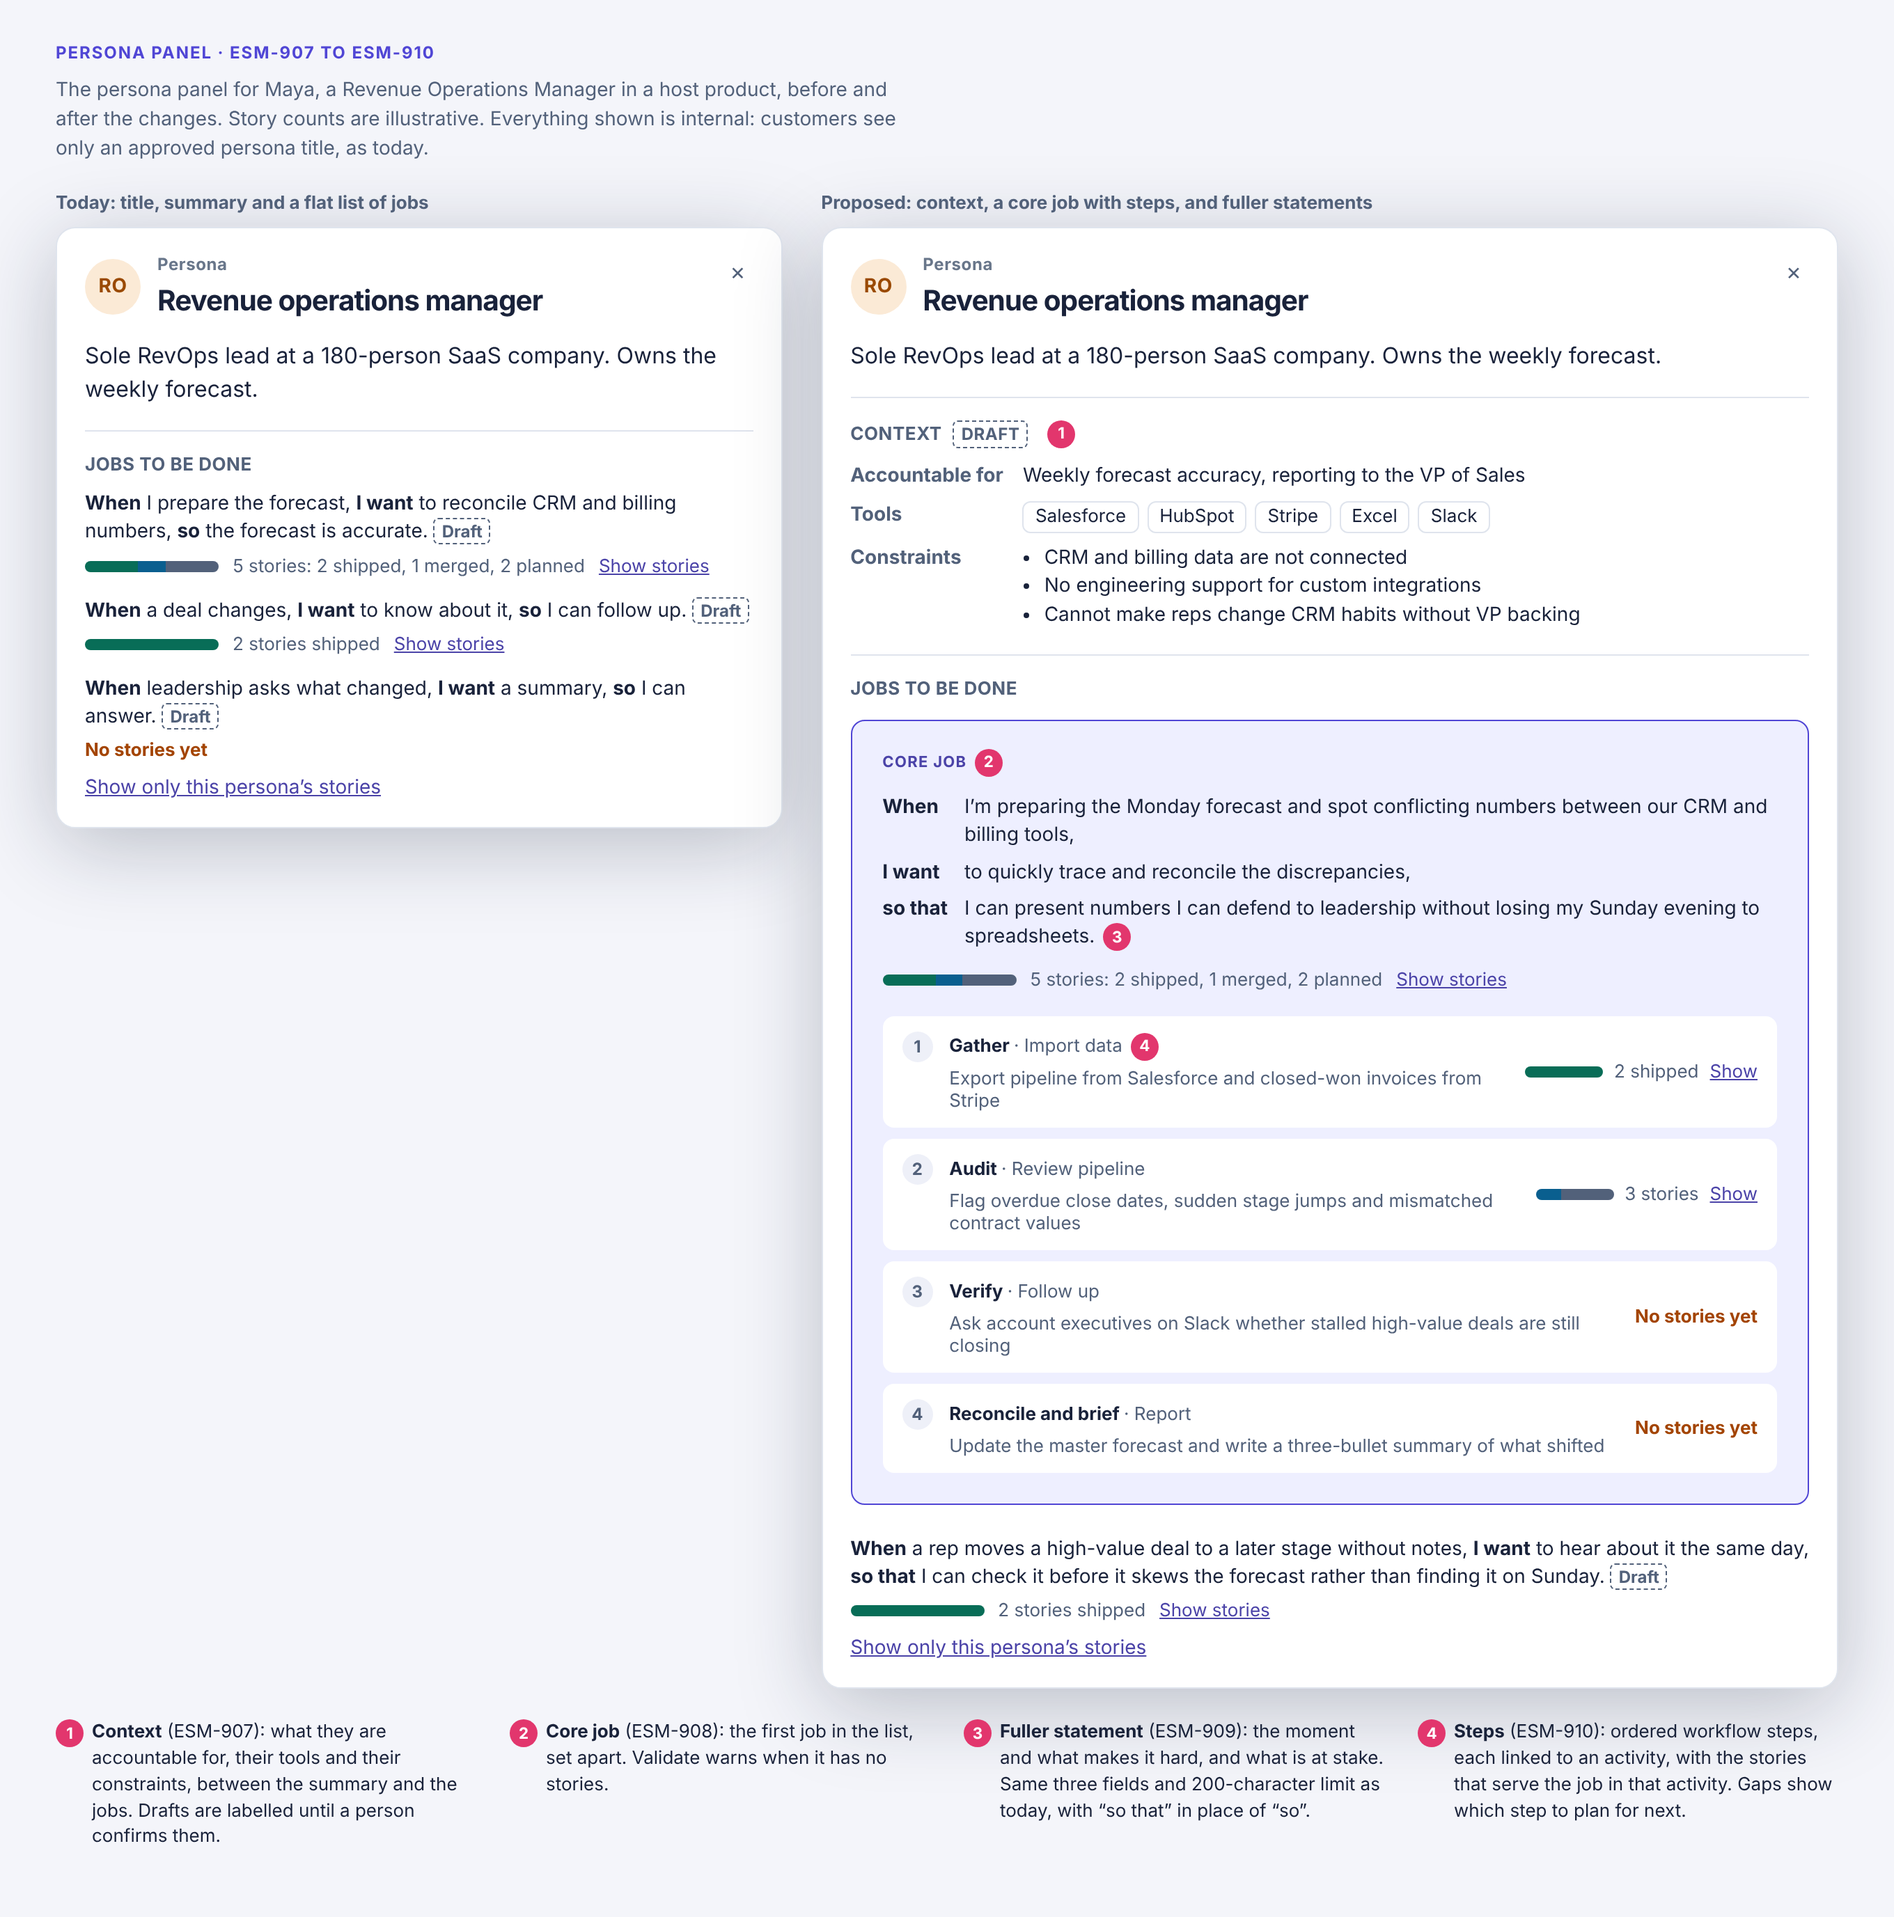
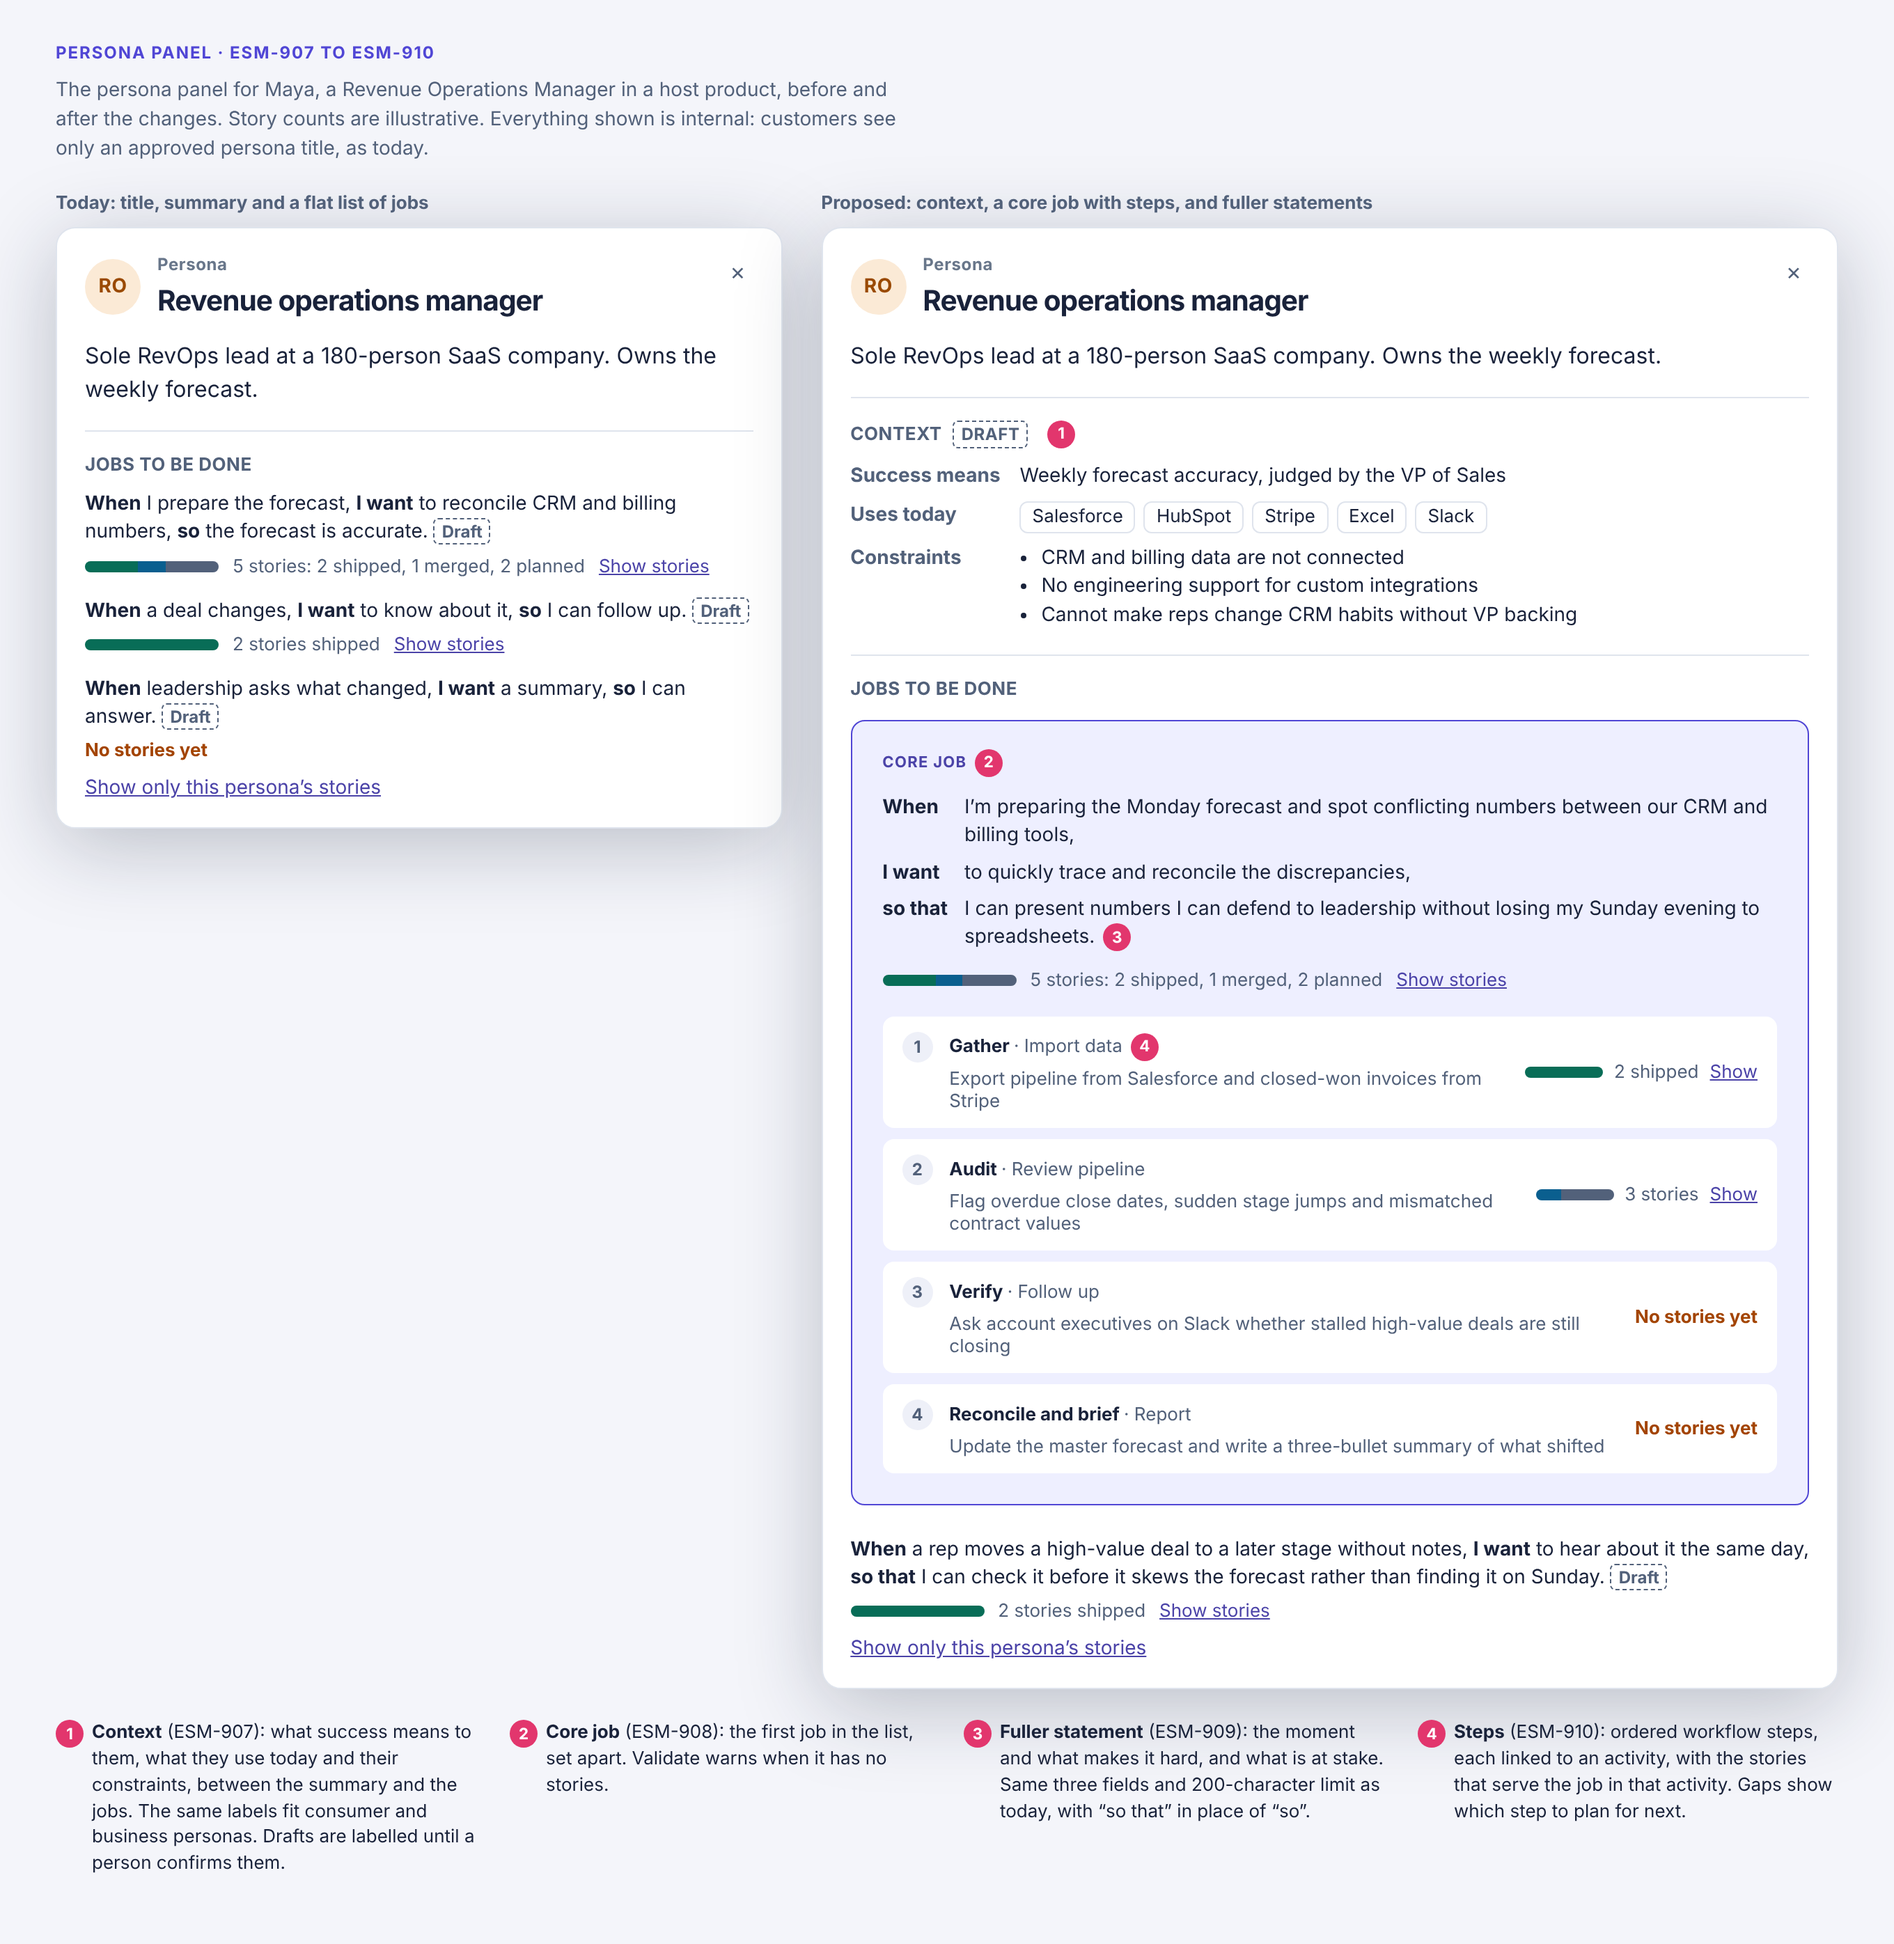
ESM-907: Rename persona context fields so they fit consumer products
Accountable for becomes Success means (success), and Tools becomes
Uses today (usesToday), which also holds workarounds and competitors.

Claude-Session: https://claude.ai/code/session_01Lq2MQU9VuAnafWHNpvrwxg

diff --git a/docs/plans/persona-context-mockup.html b/docs/plans/persona-context-mockup.html
@@ -23,8 +23,8 @@
   .esm-persona-context dt { color: var(--esm-muted); font-weight: 650; }
   .esm-persona-context dd { margin: 0; }
   .esm-persona-context ul { margin: 0; padding-left: 1.1em; }
-  .esm-tools { display: flex; flex-wrap: wrap; gap: 6px; margin: 0; padding: 0 !important; list-style: none; }
-  .esm-tools li { padding: 1px 8px; border: 1px solid var(--esm-line); border-radius: 6px; background: var(--esm-paper); font-size: .8125rem; }
+  .esm-uses { display: flex; flex-wrap: wrap; gap: 6px; margin: 0; padding: 0 !important; list-style: none; }
+  .esm-uses li { padding: 1px 8px; border: 1px solid var(--esm-line); border-radius: 6px; background: var(--esm-paper); font-size: .8125rem; }
   .esm-section-head { display: flex; align-items: center; gap: 8px; }
   .esm-job-core { display: grid; gap: 12px; margin: 4px 0 8px; padding: 20px 22px 22px; border: 1px solid var(--esm-accent); border-radius: 10px; background: var(--esm-activity-bg); }
   .esm-job-core .esm-job-statement { margin: 0; }
@@ -86,8 +86,8 @@
         <section class="esm-detail-section">
           <h4 class="esm-section-head">Context <span class="esm-draft">Draft</span><span class="mock-callout">1</span></h4>
           <dl class="esm-persona-context">
-            <dt>Accountable for</dt><dd>Weekly forecast accuracy, reporting to the VP of Sales</dd>
-            <dt>Tools</dt><dd><ul class="esm-tools"><li>Salesforce</li><li>HubSpot</li><li>Stripe</li><li>Excel</li><li>Slack</li></ul></dd>
+            <dt>Success means</dt><dd>Weekly forecast accuracy, judged by the VP of Sales</dd>
+            <dt>Uses today</dt><dd><ul class="esm-uses"><li>Salesforce</li><li>HubSpot</li><li>Stripe</li><li>Excel</li><li>Slack</li></ul></dd>
             <dt>Constraints</dt><dd><ul>
               <li>CRM and billing data are not connected</li>
               <li>No engineering support for custom integrations</li>
@@ -121,7 +121,7 @@
   </div>
 
   <ol class="mock-legend">
-    <li><span class="mock-callout">1</span><span><strong>Context</strong> (ESM-907): what they are accountable for, their tools and their constraints, between the summary and the jobs. Drafts are labelled until a person confirms them.</span></li>
+    <li><span class="mock-callout">1</span><span><strong>Context</strong> (ESM-907): what success means to them, what they use today and their constraints, between the summary and the jobs. The same labels fit consumer and business personas. Drafts are labelled until a person confirms them.</span></li>
     <li><span class="mock-callout">2</span><span><strong>Core job</strong> (ESM-908): the first job in the list, set apart. Validate warns when it has no stories.</span></li>
     <li><span class="mock-callout">3</span><span><strong>Fuller statement</strong> (ESM-909): the moment and what makes it hard, and what is at stake. Same three fields and 200-character limit as today, with “so that” in place of “so”.</span></li>
     <li><span class="mock-callout">4</span><span><strong>Steps</strong> (ESM-910): ordered workflow steps, each linked to an activity, with the stories that serve the job in that activity. Gaps show which step to plan for next.</span></li>

diff --git a/docs/plans/personas.md b/docs/plans/personas.md
@@ -17,7 +17,7 @@ Items are numbered in the order they should be built, and each section uses the 
 9. [Write job statements with a trigger and a stake](#9-write-job-statements-with-a-trigger-and-a-stake) · ESM-909
 10. [Break a job into steps](#10-break-a-job-into-steps) · ESM-910
 
-Items 7 to 10 came from comparing the format with a fuller persona template: a role with what the persona is judged on, their daily tools, their constraints, one core job story, and the workflow steps of that job. Items 7 to 9 are small and fit 0.7.3, which has not shipped. Item 10 changes the persona panel and its coverage, so it waits for 0.7.6, next to activity steps (ESM-501).
+Items 7 to 10 came from comparing the format with a fuller persona template: a role with what success means to the persona, what they use today, their constraints, one core job story, and the workflow steps of that job. Items 7 to 9 are small and fit 0.7.3, which has not shipped. Item 10 changes the persona panel and its coverage, so it waits for 0.7.6, next to activity steps (ESM-501).
 
 All stories are internal. Item 5 changes what customers can see, but only for personas whose customer copy has been approved, as for stories today. Jobs are internal only.
 
@@ -96,7 +96,7 @@ The board reads each job as a job statement: “**When** a release is being plan
 | B. Can a story have several personas | Yes, up to 4, first is primary | One persona per story. Simpler, but forces a choice for shared stories such as search |
 | C. Untagged stories | Allowed. The filter has no “Untagged” option at first, and validate warns only when the map has personas and more than half of the active stories are untagged | Make `personas` required once the map defines any. Too strict for existing maps |
 | D. What a persona filter keeps | Stories tagged with any chosen persona. Several personas can be chosen, like statuses | Primary persona only |
-| E. Persona fields | `id`, `title`, `summary`, `jobs`, `customer`, and from item 7 an internal `context` with accountability, tools and constraints | Add `pains`, `quote` or an image. Still deferred; images also raise hosting and privacy questions. Item 7 reopens this decision for context only, because constraints change what a story can assume |
+| E. Persona fields | `id`, `title`, `summary`, `jobs`, `customer`, and from item 7 an internal `context` with what success means, what they use today and their constraints | Add `pains`, `quote` or an image. Still deferred; images also raise hosting and privacy questions. Item 7 reopens this decision for context only, because constraints change what a story can assume |
 | J. Which job is the core job | The first job in the persona's list (item 8) | A `core: true` field. Explicit, but two ways to say the same thing, and validation would need to allow only one |
 | F. Customer view | Show approved personas as a “For” line in the story panel only | No personas for customers at all. Also fine; item 5 can be dropped without affecting the rest |
 | G. Release | Decided: a new **0.7.3: Personas** release, after the export work and the CLI to read and edit the map | — |
@@ -219,19 +219,35 @@ personas:
     title: Product manager
     summary: Owns the roadmap and decides what goes in each release.
     context:
-      accountability: Judged on whether releases land with the scope agreed at planning.
-      tools: [GitHub, Linear, Slack, Figma]
+      success: Releases land with the scope agreed at planning
+      usesToday: [GitHub, Linear, Slack, a planning spreadsheet]
       constraints:
         - Cannot change code, so relies on engineers or agents to edit the map
         - Shares plans with customers only through approved copy
       draft: true
 ```
 
+The names work for consumer products as well as business ones. A consumer has no manager judging them, but still has their own measure of success, and what they use today includes workarounds and competitors as well as software:
+
+```yaml
+  - id: household-planner
+    title: Household budget planner
+    context:
+      success: Every bill paid on time without checking the account each week
+      usesToday: [Banking app, Shared spreadsheet, Calendar reminders, Asking their partner]
+      constraints:
+        - Checks money on a phone, often on the commute
+        - Will not link a bank account to an app they do not trust
+      draft: true
+```
+
+`success` says what a good result looks like to them, such as “weekly forecast accuracy, judged by the VP of Sales” for a business user. `usesToday` lists the products, tools and workarounds they rely on now, because those are what a story competes with.
+
 **Change.**
 
-- `src/schema.ts`: an optional `context` on a persona, with `accountability` (up to 200 characters), `tools` (up to 8 names of up to 60 characters), `constraints` (up to 6, of up to 200 characters) and `draft`. All parts are optional, but `context` needs at least one of the first three. `draft: true` works as for jobs: agents set it, and only a person removes it.
+- `src/schema.ts`: an optional `context` on a persona, with `success` (up to 200 characters), `usesToday` (up to 8 entries of up to 60 characters), `constraints` (up to 6, of up to 200 characters) and `draft`. All parts are optional, but `context` needs at least one of the first three. `draft: true` works as for jobs: agents set it, and only a person removes it.
 - `src/view.ts`: the internal persona label carries `context`. The customer projection drops it, even for a customer-facing persona.
-- `src/react.tsx`: the persona panel shows **Accountable for**, **Tools** and **Constraints** between the summary and the jobs, with a **Draft** label on drafted context.
+- `src/react.tsx`: the persona panel shows **Success means**, **Uses today** and **Constraints** between the summary and the jobs, with a **Draft** label on drafted context.
 - `src/diff.ts`: report added, removed and changed context under **Personas and jobs**, and a confirmed draft.
 - JSON export: each persona's `context`. `story-map stories --query` and board search do not match it, so results stay about stories.
 - Validate warns about drafted context on a persona that a shipped story is for, as for drafted jobs.
